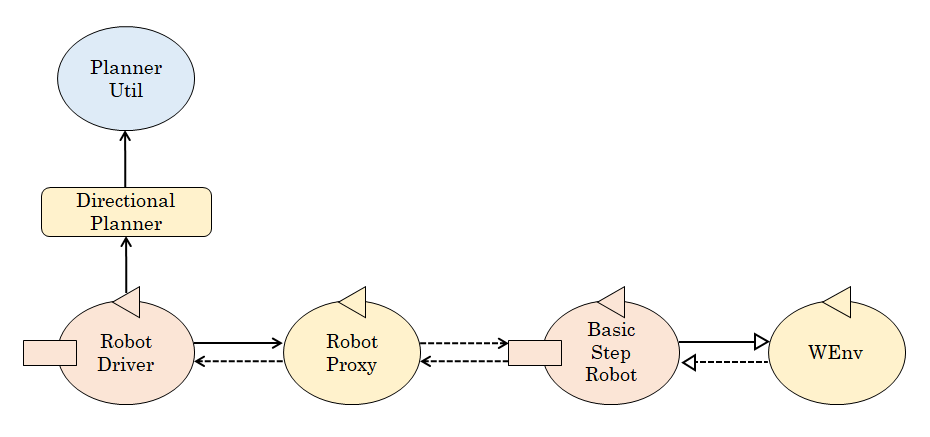
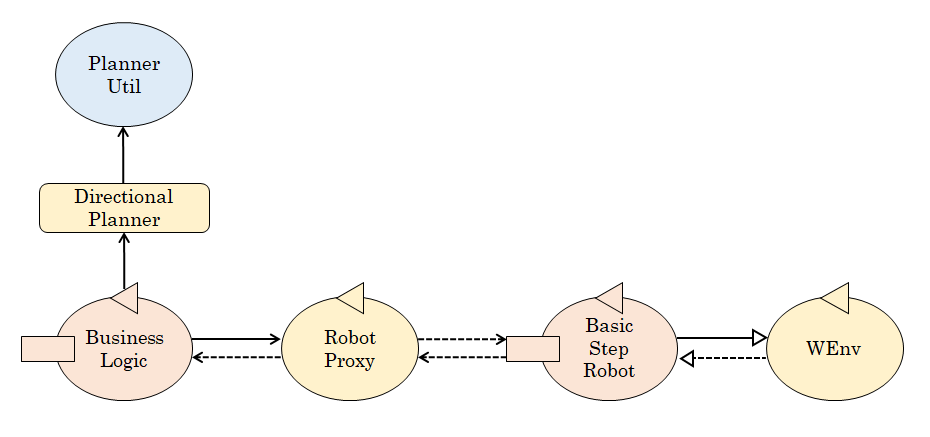
new business logic

diff --git a/FinalTask/userDocs/sprint_1.html b/FinalTask/userDocs/sprint_1.html
@@ -386,7 +386,7 @@ The <a href="#requirements_requirements">requirement details</a> provided by the
 <ol>
     <li>The system to be built will be a distributed system, consisting of several macro-components:</li>
     <ul>
-        <li>the transport trolley;</li>
+        <li>the transport trolley (and its virtual environment);</li>
         <li>the weight sensor;</li>
         <li>the thermometer;</li>
         <li>the fan;</li>
@@ -397,8 +397,6 @@ The <a href="#requirements_requirements">requirement details</a> provided by the
 	<li>Since the available map measures the <kc>parking-area</kc> in squares of side length <ks>RD</ks> (same as trolley size), the communication with the virtual robot should follow the <a href="http://htmlpreview.github.io/?https://raw.githubusercontent.com/anatali/issLab2021/main/it.unibo.boundaryWalk/userDocs/BoundaryWalk.html#aril">aril convention</a>;</li>
 	<li>PROTOCOLLI</li>
 	<li>ABSTRACTION GAP</li>
-	<li>TEMPI DI SVILUPPO</li>
-	<li>LISTA DI PRIORITA' PER GLI SPRINT</li>
 	<li>EVIDENZIARE FUNZIONAMENTI PROATTIVI E REATTIVI</li>
 </ol>
 <center><img src="./img/actors.png" width="500px"></center>
@@ -436,29 +434,29 @@ The <a href="#requirements_requirements">requirement details</a> provided by the
 
 <h4>The business logic</h4>
 
-<p>The main business logic leading to the movement of the trolley can be conveniently implemented as a finite-state machine as described by the following diagram.</p>
-<center><img src="./img/business_logic.png" width="500px"></center>
+<p>The core business logic can be conveniently described as a finite-state machine.</p>
+<center><img src="./img/business_logic.png" width="700px"></center>
 
-<p>The <ks>goto</ks> and <ks>pickup/putdown</ks> output messages of this finite-state machine should be forwarded to an entity able to perform the relative implied action on the trolley. Such entity should notify the logic with a <ks>done</ks> message when each action has been performed.</p>
+<p>The <ks>goto</ks> outputs should be delivered to an entity able to perform the implied set of elementary actions on the trolley.</p>
 
-<p>Three important facts are left out of the diagram to improve its readability:</p>
-<ol>
-	<li>The entering procedure (right branch in the picture) can be started only if there is at least one <k>vacant</k> parking slot, else the trolley must remain idle (the number, position and status of the parking slots must be properly checked and updated);</li>
-	<li>The trolley must not start the exiting procedure (left branch in the picture) if the <kc>OUTDOOR-area</kc> is occupied (this requirement is already fulfilled by the behavior of the <ks>acceptOUT</ks> within <kc>ParkServiceGUI</kc>).</li>
-	<li>The execution of the automaton must be carried on only if the trolley is <k>not stopped</k> by the manager, else its state must not change.</li>
-</ol>
+<p>Regardless of the current state, the execution of the automaton must be <k>stopped</k> whenever the manager gives the relative signal. When the manager gives the resume signal, the automaton must resume its evolution from where it was interrupted.</p>
+
+<p>In states <kc>acceptIN</kc> and <kc>acceptOut</kc>, if the conditions to process the relative requests are not met, their processing must be postponed. While the trolley is stopped, new enter and exit requests by clients are not postponed, they are instead refused (with proper notice).</p>
+
+<p>The additional tasks <k>monitor</k> and <k>manage</k> must respectively update the <kc>ParkServiceStatusGUI</kc> with the current status of the system and accept the request by the manager to stop or resume the behavior of the trolley.</p>
 
 <h4>Driving the trolley</h4>
 
-<p>The <kc>Robot Driver</kc> is responsible for the actuation of trolley movements on the provided virtual environment <kc>WEnv</kc>. This actor receives high level <k>dispatches</k> from the main business logic stating where the trolley has to go and converts them in a series of elemental steps. It then signals back the business logic when each relocation of the trolley has been completed.</p>
+<p>To access the <kc>WEnv</kc> (the virtual environment provided by the customer), it should be considered the usage of a more sophisticated tool, already available, called <a href="http://htmlpreview.github.io/?https://raw.githubusercontent.com/anatali/issLab2021/main/it.unibo.kotlinSupports/userDocs/ActorWithKotlinSupport.html#IssWsHttpKotlinSupport">Basic Step Robot Actor</a>, which would be able to avoid interferences among overlapping commands and to natively receive movement orders expressed as steps. A new service, for now called <kc>RobotProxy</kc>, may be required to ensure compatibility between our system and the legacy tool <kc>Basic Step Robot Actor</kc>.</p>
+
+<p>An already available singleton object called <a href="http://htmlpreview.github.io/?https://raw.githubusercontent.com/anatali/issLab2021/main/it.unibo.planner20/userDocs/LabPlanner.html#plannerUtil">Planner Util</a> is able to plan the route to drive a robot to a specified spot avoiding obstacles, if provided with a map such as the one made available by the customer. This tool may be extended by a new component, which we will call <kc>Directional Planner</kc>, to add the functionality to plan the desired orientation of the robot alongside its desired position (so when the movement is complete, the trolley is also oriented toward the desired direction).</p>
 
 <center><img src="./img/trolley_driving.png" width="500px"></center>
 
-<p>An already available singleton object called <a href="http://htmlpreview.github.io/?https://raw.githubusercontent.com/anatali/issLab2021/main/it.unibo.planner20/userDocs/LabPlanner.html#plannerUtil">Planner Util</a> is able to plan the route to drive a robot to a specified spot avoiding obstacles, if provided with a map such as the one made available by the customer. This tool should be extended by a new component, which we will call <kc>Directional Planner</kc>, to add the functionality to plan the desired orientation of the robot alongside its desired position (so when the movement is complete, the trolley is also oriented toward the desired direction). To carry out its duties, the <kc>Robot Driver</kc> should leverage this new utility.</p>
+<p>The <kc>WEnv</kc> requires a <k>request-reply</k> communication paradigm. Even if some intermediate steps will probably favor different approaches, the replies from the <kc>WEnv</kc> should nevertheless be always brought back to the actor that originated the relative requests.</p>
 
-<p>To access the <kc>WEnv</kc> it should be considered the possibility to use a more sophisticated tool, already available, called <a href="http://htmlpreview.github.io/?https://raw.githubusercontent.com/anatali/issLab2021/main/it.unibo.kotlinSupports/userDocs/ActorWithKotlinSupport.html#IssWsHttpKotlinSupport">Basic Step Robot Actor</a>, which would be able to avoid interferences among overlapping commands and to natively receive movement orders expressed as steps. A new service, for now called <kc>RobotProxy</kc>, may be required to ensure compatibility between our <kc>RobotDriver</kc> and the legacy tool <kc>Basic Step Robot Actor</kc>.</p>
-
-<p>The <kc>WEnv</kc> requires a <k>request-reply</k> communication paradigm. Even if some intermediate steps will probably favor different approaches, the responses from the <kc>WEnv</kc> should nevertheless be always brought back to the <kc>Robot Driver</kc>.</p>
+<h3>Workplan</h3>
+<p>LISTA DI PRIORITÀ PER GLI SPRINT E TEMPI DI SVILUPPO</p>
 
 <h3>Refined test plan</h3>
 <p>OGNI TEST PLAN DEVE ESSERE COLLEGATO AD UNA SPECIFICA USER STORY</p>
